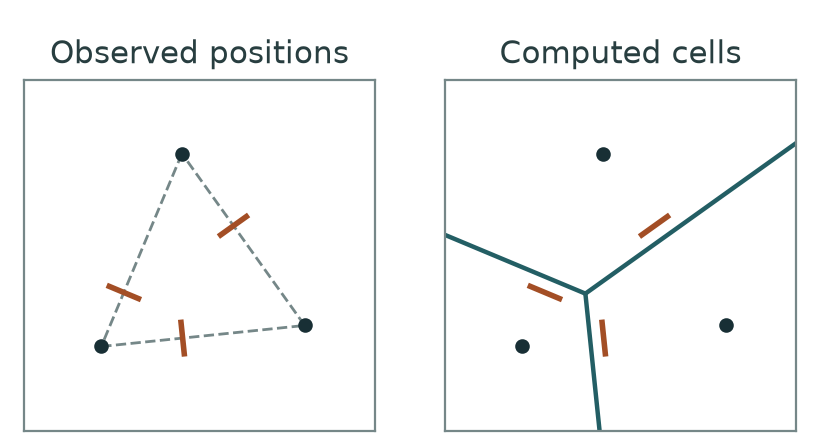
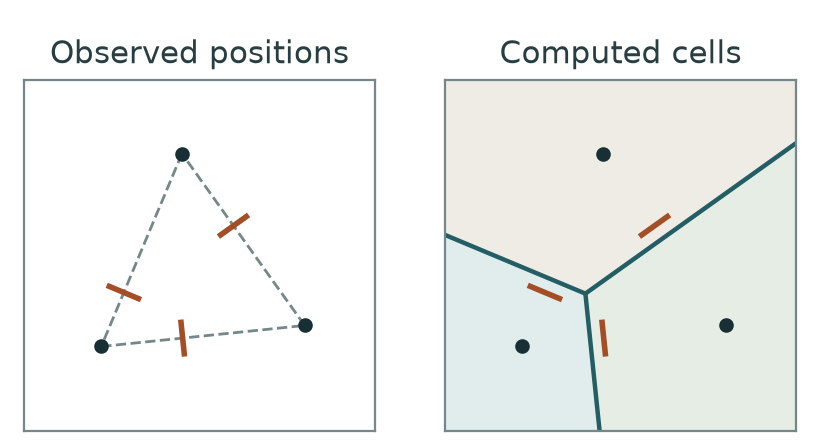
docs: emphasize capabilities and unify the landing quick start

diff --git a/docs/stylesheets/extra.css b/docs/stylesheets/extra.css
@@ -81,7 +81,6 @@ Extra CSS for pyvoro2 documentation.
   height: auto;
 }
 .landing .landing-figure figcaption {
-  border-top: 1px solid #c8d0ca;
   margin: .55rem 0 0;
   padding-top: .5rem;
   max-width: none;
@@ -89,7 +88,7 @@ Extra CSS for pyvoro2 documentation.
   font-size: .7rem;
   font-style: normal;
   line-height: 1.45;
-  text-align: left;
+  text-align: center;
 }
 .landing h2 {
   font-size: 1.3rem;
@@ -156,12 +155,19 @@ Extra CSS for pyvoro2 documentation.
   font-style: normal;
   text-align: left;
 }
-.landing-start {
-  grid-template-columns: minmax(0, .8fr) minmax(0, 1.2fr);
-  margin-block: 1.6rem;
+.landing-quickstart {
   border-top: 1px solid var(--landing-rule);
+  margin-top: 1.5rem;
   padding-top: 1.3rem;
 }
+.landing-start {
+  grid-template-columns: minmax(0, .8fr) minmax(0, 1.2fr);
+  margin-block: 1rem 1.5rem;
+}
+.landing-start h3 { margin: 0 0 .5rem; font-size: 1rem; }
+.landing-facts { margin: 1rem 0; }
+.landing-facts dt { margin-top: .7rem; font-weight: 600; }
+.landing .landing-facts dd { margin: .2rem 0 0; }
 .landing-start pre { margin-block: .8rem; }
 .landing-start .highlight .c1 { color: var(--md-default-fg-color); }
 .landing-start pre > code {
@@ -183,7 +189,7 @@ Extra CSS for pyvoro2 documentation.
   margin: .8rem 0 0;
 }
 .landing .landing-explore ul li { margin: 0; }
-.landing-explore li a { font-weight: 600; }
+.landing-explore li a { display: inline-block; margin-bottom: .35rem; font-weight: 600; font-size: 1rem; }
 .landing-footer {
   border-top: 1px solid var(--landing-rule);
   padding-top: .4rem;

diff --git a/tools/landing/render_separator_cycle.py b/tools/landing/render_separator_cycle.py
@@ -53,9 +53,18 @@ def main():
         for axis in (observed, fitted):
             axis.plot(*tick.T, color='#a34e25', linewidth=2, zorder=3)
 
+    colors = ('#e1ecec', '#e5ede5', '#eeece5')
     contacts = set()
     for cell in result.cells:
         vertices = np.asarray(cell['vertices'])
+        # Planar cells are convex; order returned vertices around their centroid.
+        center = vertices.mean(axis=0)
+        angles = np.arctan2(vertices[:, 1] - center[1], vertices[:, 0] - center[0])
+        polygon = vertices[np.argsort(angles)]
+        x, y = polygon.T
+        area = abs(np.dot(x, np.roll(y, -1)) - np.dot(y, np.roll(x, -1))) / 2
+        np.testing.assert_allclose(area, cell['area'], rtol=1e-12, atol=1e-12)
+        fitted.fill(*polygon.T, color=colors[cell['id']], linewidth=0, zorder=0)
         for edge in cell['edges']:
             # Draw each interior edge once. Negative neighbors are box walls.
             i, j = cell['id'], edge['adjacent_cell']

diff --git a/docs/index.md b/docs/index.md
@@ -11,21 +11,14 @@ hide:
 
 # Voronoi and power tessellations *in Python*
 
-Compute 2D and 3D tessellations in bounded and periodic systems. Get cell geometry,
-areas or volumes, and contacts between neighboring cells.
-
-<div class="landing-links" markdown="1">
-
-[Installation](#installation)
-[API Reference](reference/index.md)
-
-</div>
+Python tools built on Voro++ for periodic geometry, cell analysis, and
+inverse weight fitting.
 
 </div>
 <figure class="landing-figure" markdown="1">
   <img src="assets/landing/triclinic-voronoi.png" width="1600" height="900"
        alt="Four complete Voronoi polyhedra surround four points. A dashed skew frame outlines one fundamental domain; the polyhedra extend across that frame.">
-  <figcaption markdown="span">Four complete Voronoi cells from a fully periodic triclinic 3D calculation. [Run this example](guide/forward/index.md).</figcaption>
+  <figcaption markdown="span">Fully periodic triclinic 3D Voronoi · [Example](guide/forward/index.md)</figcaption>
 </figure>
 </div>
 
@@ -34,13 +27,16 @@ areas or volumes, and contacts between neighboring cells.
 
 ## [Compute tessellations](guide/forward/index.md)
 
-Voronoi cells assign space to the nearest point. Power (Laguerre) diagrams use
-weights to shift the boundaries.
+Standard Voronoi and power/Laguerre diagrams, with dedicated 2D and 3D interfaces.
 
-- **[2D](guide/planar.md)** — Bounded or periodic rectangles.
-- **[3D](guide/domains.md)** — Bounded boxes and orthorhombic periodic cells; fully periodic triclinic cells.
-
-[Identify which periodic copy of a neighbor shares a boundary](guide/periodic-contacts.md).
+<dl class="landing-facts">
+  <dt>Domains &amp; contacts</dt>
+  <dd>Bounded domains. Rectangular periodic 2D; orthorhombic or fully periodic triclinic 3D. Contacts retain the neighbor’s lattice image.</dd>
+  <dt>Geometry &amp; measures</dt>
+  <dd>Cell shapes, areas and volumes. Global vertices and edges in 2D; separate normalization helpers for vertices, edges and faces in 3D.</dd>
+  <dt>Diagnostics &amp; validation</dt>
+  <dd>Check cell geometry and inspect diagnostics.</dd>
+</dl>
 
 [Capabilities and limitations](guide/capabilities.md)
 
@@ -49,28 +45,26 @@ weights to shift the boundaries.
 
 ## [Fit power weights](guide/inverse/index.md)
 
-Keep the points fixed. For selected pairs, specify where their power separator
-should cross the line joining them. Fit one set of power weights to all these
-observations together.
+Fit power weights to observed pairwise separator positions at fixed points,
+reconciling the observations in one weighted diagram.
 
 <figure class="landing-cycle">
   <img src="assets/landing/separator-cycle.png" width="820" height="444" loading="lazy"
        alt="Two panels show the same three fixed points. Left: short marks on dashed lines joining the points locate three observed pairwise separators. Right: the power diagram computed from fitted weights has three shared edges. The original marks remain offset from those edges; none of the observations is matched exactly.">
-  <figcaption>
-    <p>Ticks: observed positions. Solid interior lines: computed edges.</p>
-    <p>These observations cannot all be matched exactly. All three cell pairs share an edge in this example.</p>
-  </figcaption>
+  <figcaption>Observed positions (ticks) are approximately matched by one fitted diagram. All three cell pairs meet in this example.</figcaption>
 </figure>
-
-[Fitting a separator does not guarantee a shared cell boundary](guide/inverse/index.md#from-a-fit-to-geometry).
 
 </section>
 </div>
 
-<section class="landing-start" markdown="1">
+<section class="landing-quickstart" markdown="1">
+
+## Quick start
+
+<div class="landing-start" markdown="1">
 <div markdown="1">
 
-## Installation
+<h3 id="installation">Install</h3>
 
 ```bash
 python -m pip install pyvoro2
@@ -83,9 +77,7 @@ CPython 3.10–3.14 (GIL enabled). NumPy is the only required runtime dependency
 </div>
 <div markdown="1">
 
-## Divide a unit cube
-
-Two points, two cells: each occupies half the cube.
+### Compute
 
 ```python
 import pyvoro2 as pv
@@ -98,6 +90,7 @@ print(result.cell_measures)
 # [0.5 0.5]
 ```
 
+</div>
 </div>
 </section>
 
@@ -115,8 +108,6 @@ print(result.cell_measures)
 </nav>
 
 <div class="landing-footer" markdown="1">
-
-Built on Voro++ tessellation engines, with Python interfaces, geometric analysis, and inverse fitting.
 
 Beta · Project code: LGPLv3+ · Voro++: upstream license.
 
